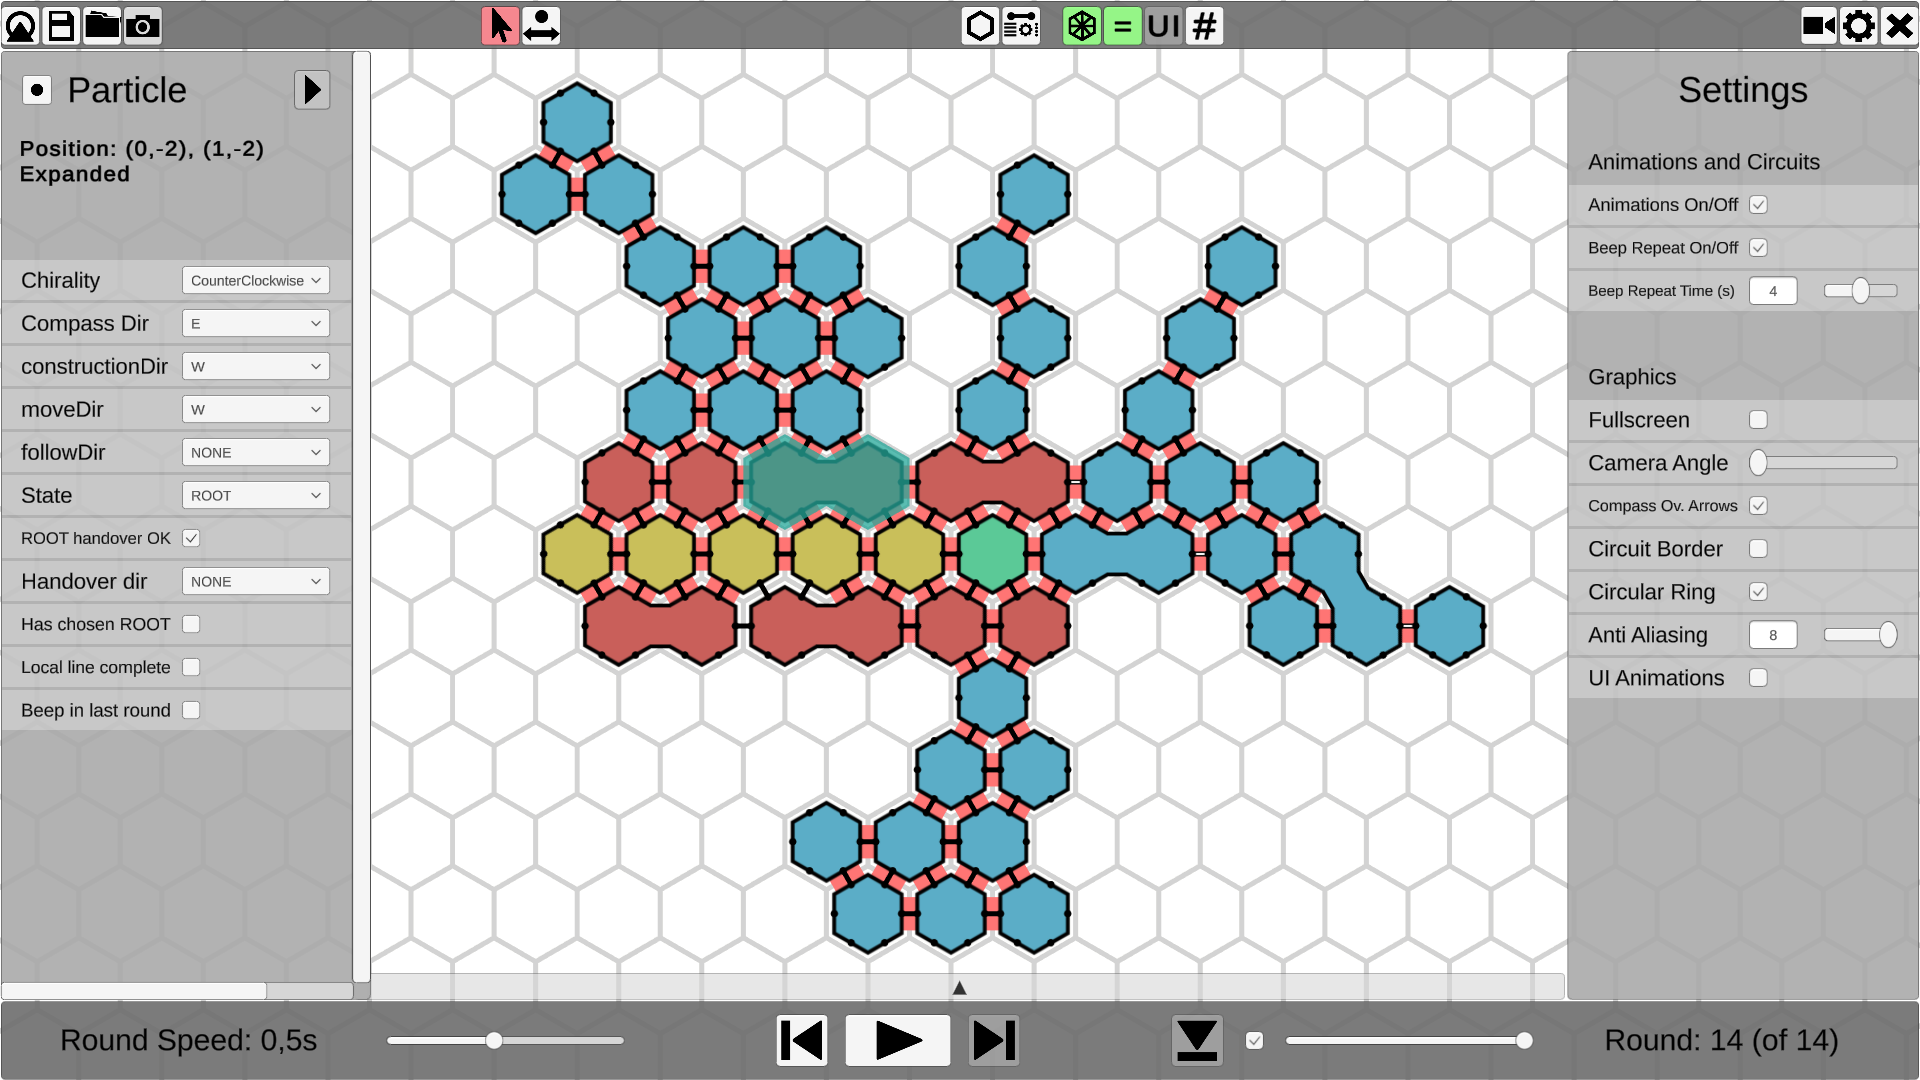
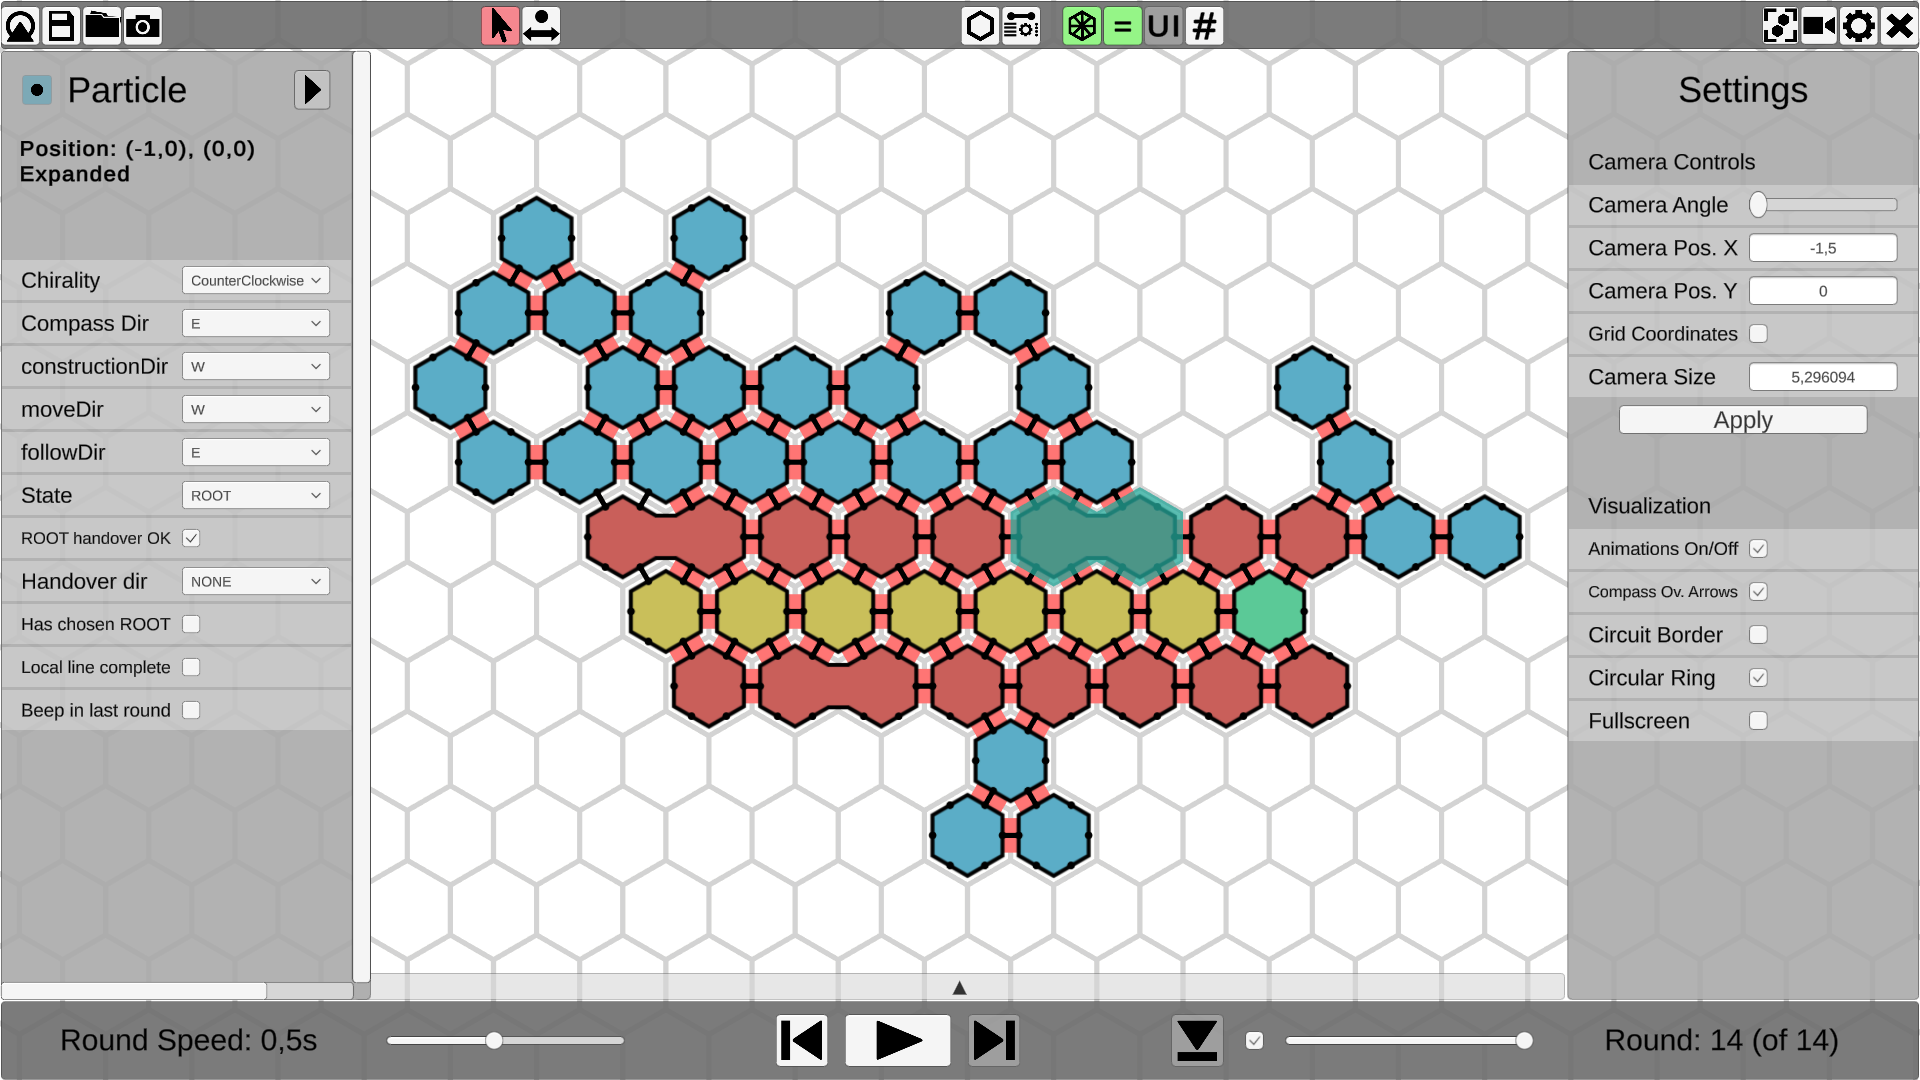
Added toggle to specify camera grid coordinates and updated User Guide pages for current UI

diff --git a/AmoebotSim 2.0/Assets/Code/Graphics/UI/SettingsUIHandler.cs b/AmoebotSim 2.0/Assets/Code/Graphics/UI/SettingsUIHandler.cs
@@ -25,6 +25,7 @@ namespace AS2.UI
         public GameObject settingsPanel;
         public GameObject settingsParent;
         private Vector2Int nonFullScreenResolution = new Vector2Int(-1, -1);
+        private bool camPosInGridCoords = false;    // Stores whether camera coordinates are in grid or world system
 
         // Setting names (used to identify which setting has changed)
         private const string settingName_animationsOnOff = "Animations On/Off";
@@ -32,6 +33,7 @@ namespace AS2.UI
         private const string settingName_cameraAngle = "Camera Angle";
         private const string settingName_cameraPosX = "Camera Pos. X";
         private const string settingName_cameraPosY = "Camera Pos. Y";
+        private const string settingName_cameraPosWorldOrGrid = "Grid Coordinates";
         private const string settingName_cameraSize = "Camera Size";
         private const string settingName_compassOvArrows = "Compass Ov. Arrows";
         private const string settingName_circuitBorder = "Circuit Border";
@@ -66,12 +68,13 @@ namespace AS2.UI
             setting_cameraAngle.onValueChangedEvent += SettingChanged_Value;
             // Camera Position x and y
             setting_cameraPosX = new UISetting_Text(null, settingsParent.transform, settingName_cameraPosX, Camera.main.transform.position.x.ToString(), UISetting_Text.InputType.Float);
-            //setting_cameraPosX.onValueChangedEvent += SettingChanged_Text;
             setting_cameraPosY = new UISetting_Text(null, settingsParent.transform, settingName_cameraPosY, Camera.main.transform.position.y.ToString(), UISetting_Text.InputType.Float);
-            //setting_cameraPosY.onValueChangedEvent += SettingChanged_Text;
+            // Toggle between world and grid coordinates
+            UISetting_Toggle setting_cameraPosWorldOrGrid = new UISetting_Toggle(null, settingsParent.transform, settingName_cameraPosWorldOrGrid, false);
+            setting_cameraPosWorldOrGrid.onValueChangedEvent += SettingChanged_Toggle;
+            camPosInGridCoords = false;
             // Camera Size
             setting_cameraSize = new UISetting_Text(null, settingsParent.transform, settingName_cameraSize, Camera.main.orthographicSize.ToString(), UISetting_Text.InputType.Float);
-            //setting_cameraSize.onValueChangedEvent += SettingChanged_Text;
 
             // Button to apply camera settings
             GameObject go_button_apply = Instantiate(UIDatabase.prefab_ui_button, settingsParent.transform);
@@ -198,6 +201,9 @@ namespace AS2.UI
                 case settingName_animationsOnOff:
                     RenderSystem.animationsOn = isOn;
                     break;
+                case settingName_cameraPosWorldOrGrid:
+                    ToggleCamPositionWorldGrid(isOn);
+                    break;
                 default:
                     break;
             }
@@ -225,20 +231,66 @@ namespace AS2.UI
         {
             float x = float.Parse(setting_cameraPosX.GetValueString());
             float y = float.Parse(setting_cameraPosY.GetValueString());
+            // Convert to world coordinates if necessary
+            if (camPosInGridCoords)
+            {
+                Vector2 pos = new Vector2(x, y);
+                pos = AmoebotFunctions.CalculateAmoebotCenterPositionVector2(pos);
+                x = pos.x;
+                y = pos.y;
+            }
             float size = float.Parse(setting_cameraSize.GetValueString());
             MouseController.instance.SetCameraPosition(x, y);
             MouseController.instance.SetOrthographicSize(size);
         }
 
         /// <summary>
+        /// Changes the displayed camera coordinates to be
+        /// world or grid coordinates.
+        /// </summary>
+        /// <param name="grid">If <c>true</c>, display grid
+        /// coordinates, otherwise display world coordinates.</param>
+        private void ToggleCamPositionWorldGrid(bool grid)
+        {
+            if (grid == camPosInGridCoords)
+                return;
+
+            if (grid)
+            {
+                // Convert world to grid coordinates
+                Vector2 worldPos = new Vector2(float.Parse(setting_cameraPosX.GetValueString()), float.Parse(setting_cameraPosY.GetValueString()));
+                Vector2 gridPos = AmoebotFunctions.GetGridCoordinatesFromWorldPosition(worldPos);
+                setting_cameraPosX.SetValueString(gridPos.x.ToString());
+                setting_cameraPosY.SetValueString(gridPos.y.ToString());
+            }
+            else
+            {
+                // Convert grid to world coordinates
+                Vector2 gridPos = new Vector2(float.Parse(setting_cameraPosX.GetValueString()), float.Parse(setting_cameraPosY.GetValueString()));
+                Vector2 worldPos = AmoebotFunctions.CalculateAmoebotCenterPositionVector2(gridPos);
+                setting_cameraPosX.SetValueString(worldPos.x.ToString());
+                setting_cameraPosY.SetValueString(worldPos.y.ToString());
+            }
+            camPosInGridCoords = grid;
+        }
+
+        /// <summary>
         /// Updates the fields related to the camera position and
         /// size in the Settings Panel.
         /// </summary>
-        /// <param name="x">The x coordinate of the camera.</param>
-        /// <param name="y">The y coordinate of the camera.</param>
+        /// <param name="x">The x world coordinate of the camera.</param>
+        /// <param name="y">The y world coordinate of the camera.</param>
         /// <param name="size">The orthographic size of the camera.</param>
         public void UpdateCameraData(float x, float y, float size)
         {
+            // Convert to grid coordinates if necessary
+            if (camPosInGridCoords)
+            {
+                Vector2 pos = new Vector2(x, y);
+                pos = AmoebotFunctions.GetGridCoordinatesFromWorldPosition(pos);
+                x = pos.x;
+                y = pos.y;
+            }
             setting_cameraPosX.SetValueString(x.ToString());
             setting_cameraPosY.SetValueString(y.ToString());
             setting_cameraSize.SetValueString(size.ToString());

diff --git a/AmoebotSim 2.0/Assets/Code/Data/Libraries/AmoebotFunctions.cs b/AmoebotSim 2.0/Assets/Code/Data/Libraries/AmoebotFunctions.cs
@@ -72,6 +72,14 @@ namespace AS2
             return new Vector2Int(Mathf.RoundToInt(gridPosX), Mathf.RoundToInt(gridPosY));
         }
 
+        public static Vector2 GetGridCoordinatesFromWorldPosition(Vector2 worldPosition)
+        {
+            float sinVal = Mathf.Sin(Mathf.PI * 60f / 180f);
+            float gridPosY = worldPosition.y / sinVal;
+            float gridPosX = worldPosition.x - 0.5f * gridPosY;
+            return new Vector2(gridPosX, gridPosY);
+        }
+
         public static Vector2 NearestHexFieldWorldPositionFromWorldPosition(Vector2 worldPosition)
         {
             return CalculateAmoebotCenterPositionVector2(GetGridPositionFromWorldPosition(worldPosition));

diff --git a/Documentation/user_guide/usage/sim.md b/Documentation/user_guide/usage/sim.md
@@ -47,7 +47,7 @@ This can be useful if some error only occurs when certain random decisions are m
 ![Top Bar](~/images/top_bar_sim.png "Top Bar")
 
 The Top Bar shows various changes compared to Init Mode.
-Minor changes include that the Save button (second button in the left group) now works and the Settings button (second button in the right group) is now enabled.
+Minor changes include that the Save button (second button in the left group) now works and the Settings button (third button in the right group) is now enabled.
 The Settings button is explained further below.
 
 ### Tool Menu
@@ -108,25 +108,37 @@ The third and fourth button simply toggle the circuit and bond visualization on 
 
 The Settings Panel is opened by pressing the Top Bar button with the gear icon, which is the second-last button in the Top Bar.
 It will appear on the right side of the UI, where the Initialization Panel is in Init Mode.
-The panel contains various general settings, mainly for modifying the visualization.
+The panel contains some advanced camera controls and visualization options.
 
-**Animations On/Off**  
-This setting toggles the movement animations on and off.
-Animations make the particle movements much easier to understand, but the simulation might run faster with animations turned off.
-
-**Beep Repeat On/Off** and **Beep Repeat Time (s)**  
-*Deprecated*
-
-**Fullscreen**  
-When the application is built and run as a standalone outside the Unity Editor, this setting can be used to toggle between fullscreen and windowed mode.
-It is recommended to run the application in fullscreen mode.
-This setting has no effect when the simulator runs in the Unity Editor.
+### Camera Controls
 
 **Camera Angle**  
 This slider controls the rotation angle of the viewport.
 Moving the slider to the right rotates the camera counter-clockwise in 30 degree steps.
 
-**Compass ov. Arrows**  
+**Camera Pos. X** and **Camera Pos. Y**  
+These fields can be used to specify the coordinates of the center of the camera.
+The position is only updated when the `Apply` button below is clicked.
+When the camera is centered or framed around the particle system, the content of these fields is updated.
+
+**Grid Coordinates**  
+If this toggle is enabled, the coordinates specified in the above fields are grid coordinates instead of world coordinates.
+
+**Camera Size**  
+This field is used to specify the camera's orthographic size, which corresponds to the zoom level.
+The value is applied to the camera when the `Apply` button is clicked.
+Its value is updated when the camera is framed around the particle system by pressing the button in the Top Bar.
+
+**Apply**  
+This button applies the currently set camera position and zoom level to the camera.
+
+### Visualization
+
+**Animations On/Off**  
+This setting toggles the movement animations on and off.
+Animations make the particle movements much easier to understand, but the simulation might run faster with animations turned off.
+
+**Compass Ov. Arrows**  
 This setting changes the visualization of compass directions in the particle overlay showing the compasses of all particles.
 When it is enabled, the compass directions are displayed as arrows.
 When it is disabled, the directions are represented by their textual names (like E, NNE, etc.) instead.
@@ -140,12 +152,10 @@ The border is not visible if a beep is sent on the circuit.
 This setting toggles the ring around the particles in graph view mode (see view modes above).
 Turning the rings off removes the color information from the particles but may be useful for creating screenshots with a particular style.
 
-**Anti Aliasing**  
-Controls the level of Multi-Sample Anti-aliasing performed by the GPU.
-*Does not seem to have a visible effect*
-
-**UI Animations**  
-Toggles the sliding animation of the Randomization bar in the Particle Panel on and off.
+**Fullscreen**  
+When the application is built and run as a standalone outside the Unity Editor, this setting can be used to toggle between fullscreen and windowed mode.
+It is recommended to run the application in fullscreen mode.
+This setting has no effect when the simulator runs in the Unity Editor.
 
 
 <img src="~/images/particle_panel_sim.png" alt="Particle Panel (Simulation Mode)" title="Particle Panel (Simulation Mode)" width="200" align="right"/>
@@ -167,19 +177,19 @@ If you want to change a particle's state in an earlier round, you will need to c
 The simulation environment provides several hotkeys so that its functions can be accessed more easily.
 Here is a short overview of the currently set hotkeys:
 
-Hotkey                             | Function
------------------------------------|----------------------
-Right Ctrl + Arrow Keys or WASD    | Camera Movement
-Space                              | Play/Pause
-PageUp or Shift + Right Arrow Key  | Step Forward
-PageDown or Shift + Left Arrow Key | Step Back
-H                                  | Hide/Show UI
-Shift + C                          | Center Camera
-Shift + F                          | Frame whole system
-Shift + V                          | Take Screenshot
-Shift + S                          | Save Simulation State
-Shift + O                          | Load Simulation State
-Shift + Q                          | Exit Simulator
+Hotkey                               | Function
+-------------------------------------|----------------------
+Right Ctrl + (Arrow Keys or WASD)    | Camera Movement
+Space                                | Play/Pause
+PageUp or (Shift + Right Arrow Key)  | Step Forward
+PageDown or (Shift + Left Arrow Key) | Step Back
+H                                    | Hide/Show UI
+Shift + C                            | Center Camera
+Shift + F                            | Frame whole system
+Shift + V                            | Take Screenshot
+Shift + S                            | Save Simulation State
+Shift + O                            | Load Simulation State
+Shift + Q                            | Exit Simulator
 
 If you want to modify the hotkeys, this can be done in the [`UIHandler`][1] class found in `Assets/Code/Graphics/UI/UIHandler.cs`.
 You can read more about this class and the UI system implementation on the [Dev Guide pages](~/dev_guide/ui.md).

diff --git a/Documentation/user_guide/usage/init.md b/Documentation/user_guide/usage/init.md
@@ -179,13 +179,14 @@ While this overlay is active, all camera movements are disabled because updating
 
 The other buttons only make a difference in Simulation Mode and will be explained later.
 
-<img src="~/images/top_bar_right.png" alt="Right Top Bar Group" title="Right Top Bar Group" width="100" align="right"/>
+<img src="~/images/top_bar_right.png" alt="Right Top Bar Group" title="Right Top Bar Group" width="150" align="right"/>
 
 ### Right Group
 
 The fourth group, located on the far right side, contains more general utility functions.
-Its first button centers the viewport on the particle system using the center of the particle system's bounding rectangle.
-The second button only works in Simulation Mode and opens the Settings Panel.
+Its first button brings the whole particle system into view by setting the camera position and the zoom level appropriately.
+The second button just centers the viewport on the particle system using the center of its bounding rectangle, but it does not change the zoom level.
+The third button only works in Simulation Mode and opens the Settings Panel.
 The last button closes the application and is available in Init and Simulation Mode.
 
 
